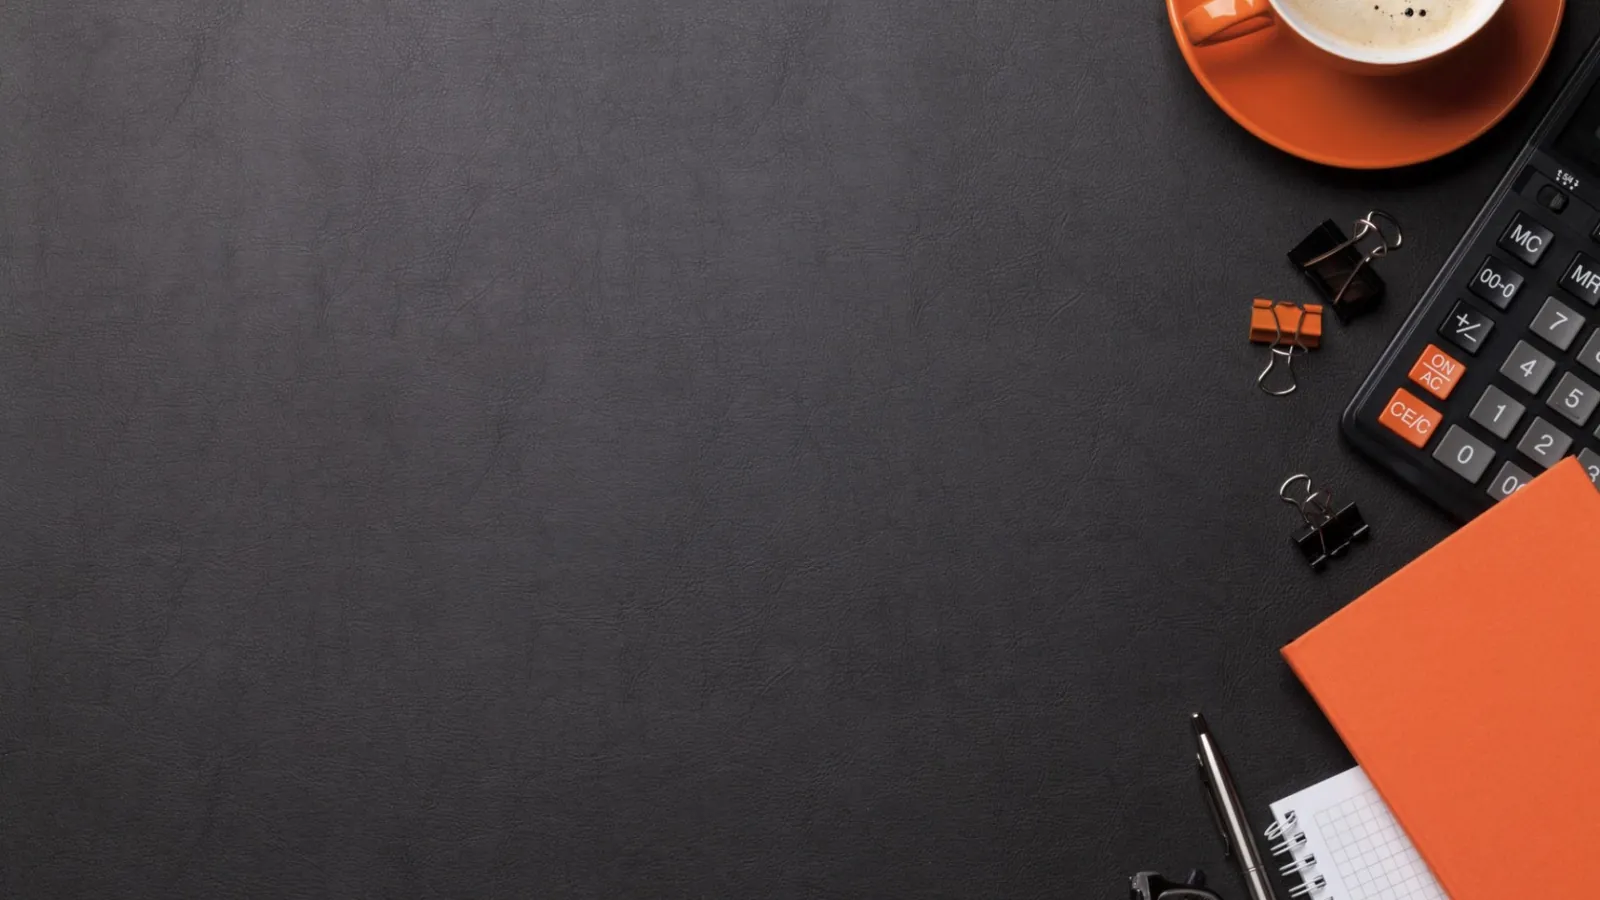
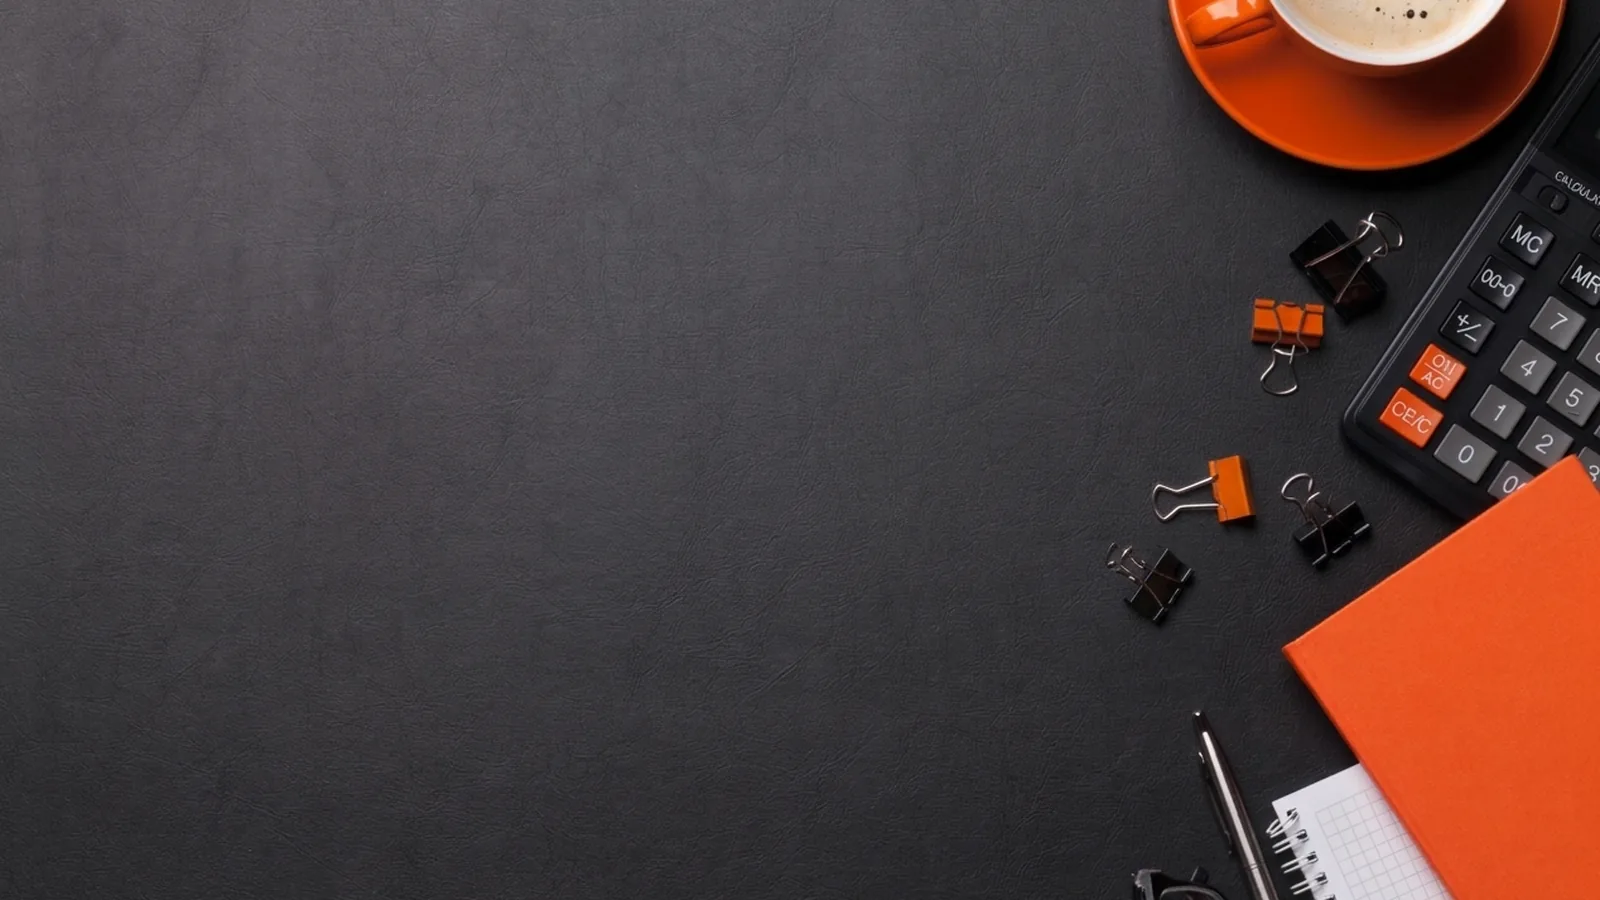
Newsroom hero: use the new desk image; darken the overlay on phones
New image (cup, calculator, clips, glasses, pen, notebook all in frame)
converted to 1600x900 WebP (109 KB), replacing the previous version.
On phones the desk items sit behind the heading, so the overlay is a
little darker there to keep the text crisp.

diff --git a/css/newsroom.css b/css/newsroom.css
@@ -1274,6 +1274,12 @@
     object-position: 82% 30%;
   }
 
+  /* objects sit behind the text on narrow screens; darken slightly */
+  .hero-over {
+
+    background: linear-gradient(to top, #000000e6 0%, #00000099 55%, #00000066 100%);
+  }
+
   .nr-org {
 
     flex-basis: auto;
